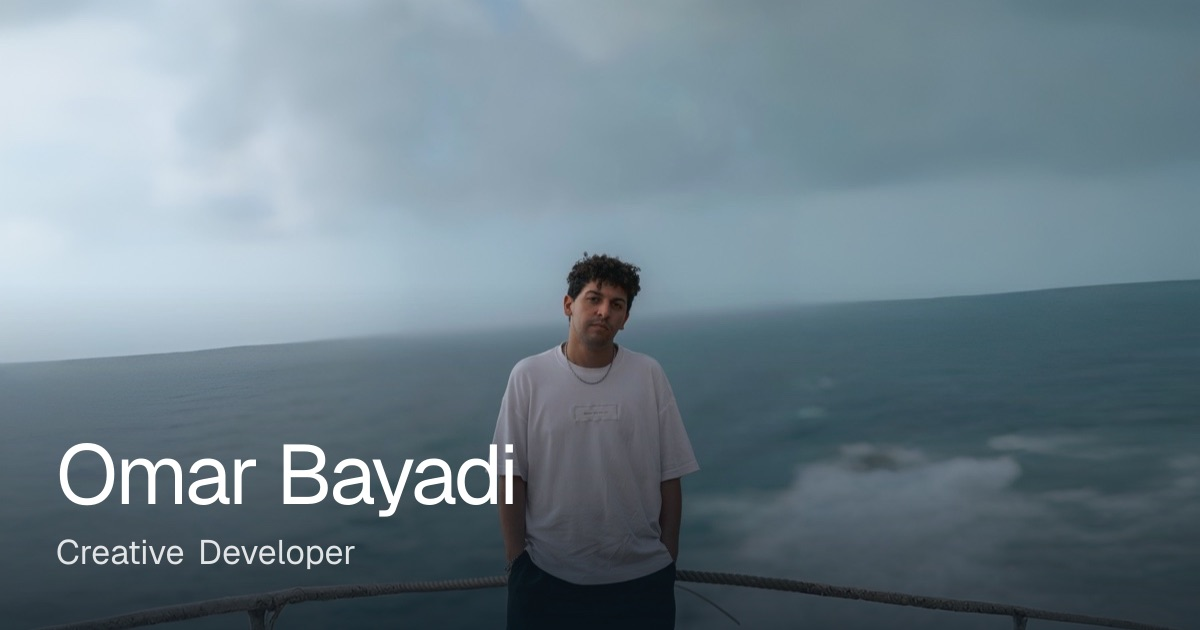
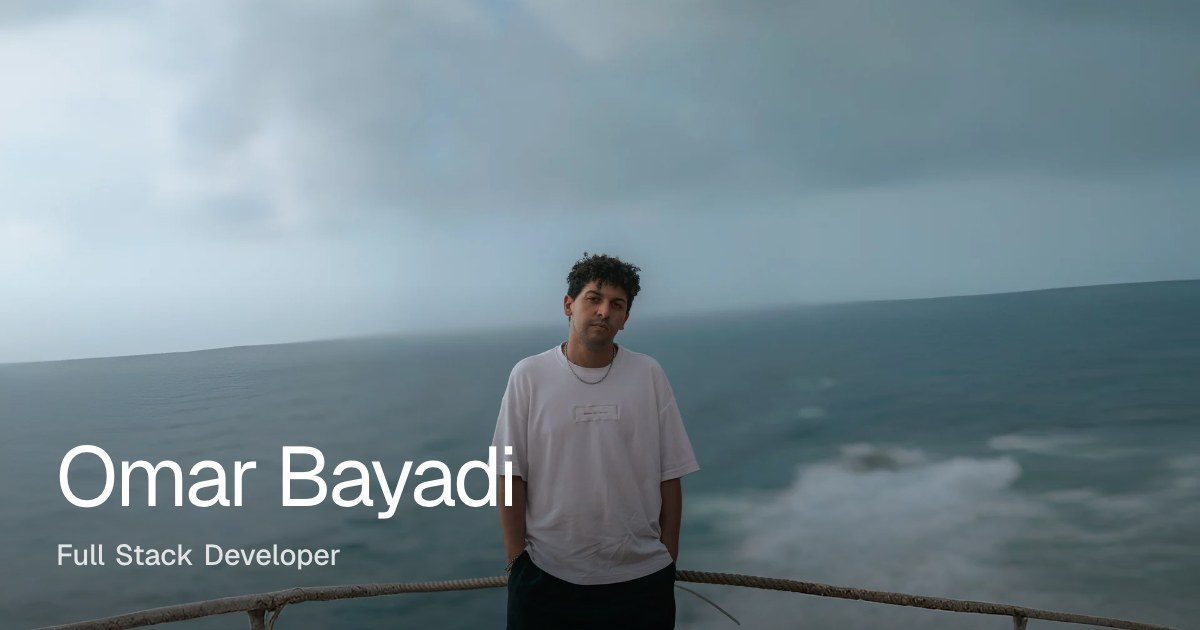
content: present Omar as a full stack developer
Replaces creative developer in the SEO copy, structured data, hero and
social preview image.

Changed region(s): [[0.0, 0.6937, 1.0, 1.0], [0.9558, 0.8746, 0.9867, 0.9048], [0.0617, 0.6937, 0.0925, 0.7238]]

diff --git a/src/content/seo.js b/src/content/seo.js
@@ -7,11 +7,12 @@ import { PLACE, SITE } from './site'
  */
 export const SEO = {
   title: `${SITE.fullName} · ${SITE.role} a ${PLACE.city}`,
-  description: `${SITE.fullName}, creative developer a ${PLACE.city}: siti web creativi, applicazioni custom e web app su misura, con animazioni curate e codice veloce.`,
+  description: `${SITE.fullName}, full stack developer a ${PLACE.city}: siti web creativi, applicazioni custom e web app su misura, con animazioni curate e codice veloce.`,
   /** Chi è, in terza persona: è la frase che motori e assistenti AI possono citare così com'è. */
-  summary: `${SITE.fullName} è un creative developer con base a ${PLACE.city}, in ${PLACE.region}. Progetta e sviluppa siti web creativi, applicazioni custom e web app su misura, curando insieme design, animazioni e codice.`,
+  summary: `${SITE.fullName} è un full stack developer con base a ${PLACE.city}, in ${PLACE.region}. Progetta e sviluppa siti web creativi, applicazioni custom e web app su misura, curando insieme design, animazioni e codice.`,
   keywords: [
-    'creative developer',
+    'full stack developer',
+    'sviluppatore full stack',
     'sviluppatore web',
     'siti web creativi',
     'applicazioni custom',

diff --git a/src/content/site.js b/src/content/site.js
@@ -3,7 +3,7 @@
 export const SITE = {
   name: 'OMAR',
   fullName: 'Omar Bayadi',
-  role: 'Creative Developer',
+  role: 'Full Stack Developer',
   email: 'omar.bayadi.lavoro@gmail.com',
   year: '2026',
   /** Dominio pubblico, senza barra finale. Si cambia con NEXT_PUBLIC_SITE_URL senza toccare il codice. */
@@ -32,7 +32,7 @@ export const PROFILES = [
 /** Competenze dichiarate nei dati strutturati (knowsAbout). */
 export const SKILLS = [
   'Sviluppo web',
-  'Creative development',
+  'Sviluppo full stack',
   'Animazioni web',
   'React',
   'Next.js',

diff --git a/src/content/hero.js b/src/content/hero.js
@@ -7,7 +7,7 @@ export const HERO = {
     alt: 'Omar in piedi su una terrazza davanti al mare in tempesta',
   },
   /** Righe della frase: l'ultima resta più tenue. */
-  tagline: ['Creative developer: progetto', 'e sviluppo esperienze digitali'],
+  tagline: ['Full stack developer: progetto', 'e sviluppo esperienze digitali'],
   taglineMuted: 'su misura.',
   cta: { label: 'Scopri di più', href: anchor(SECTION.about) },
   services: ['Siti web creativi', 'App custom', 'Web app'],
